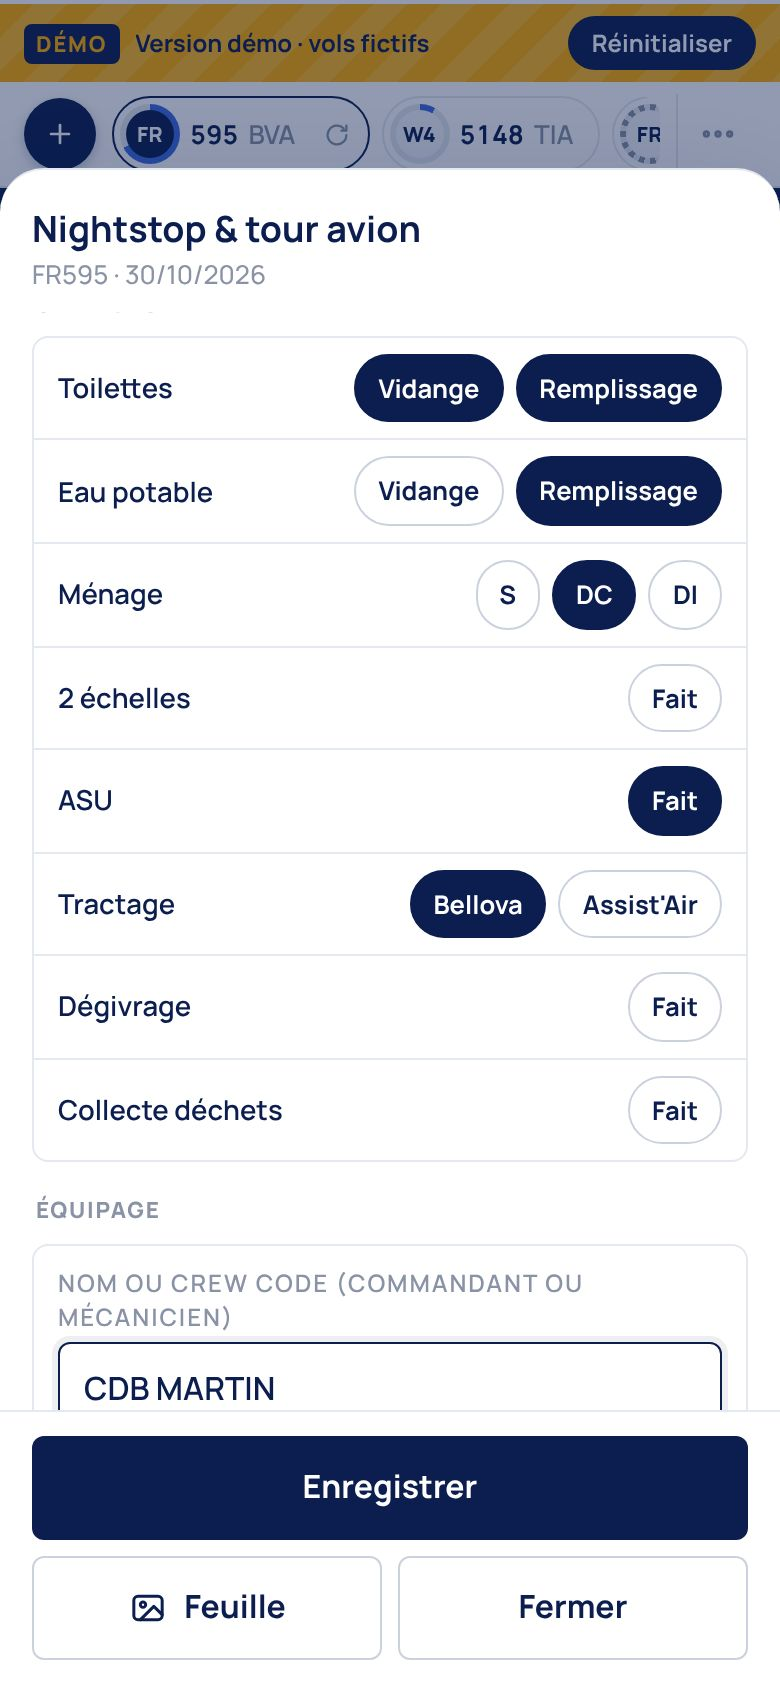
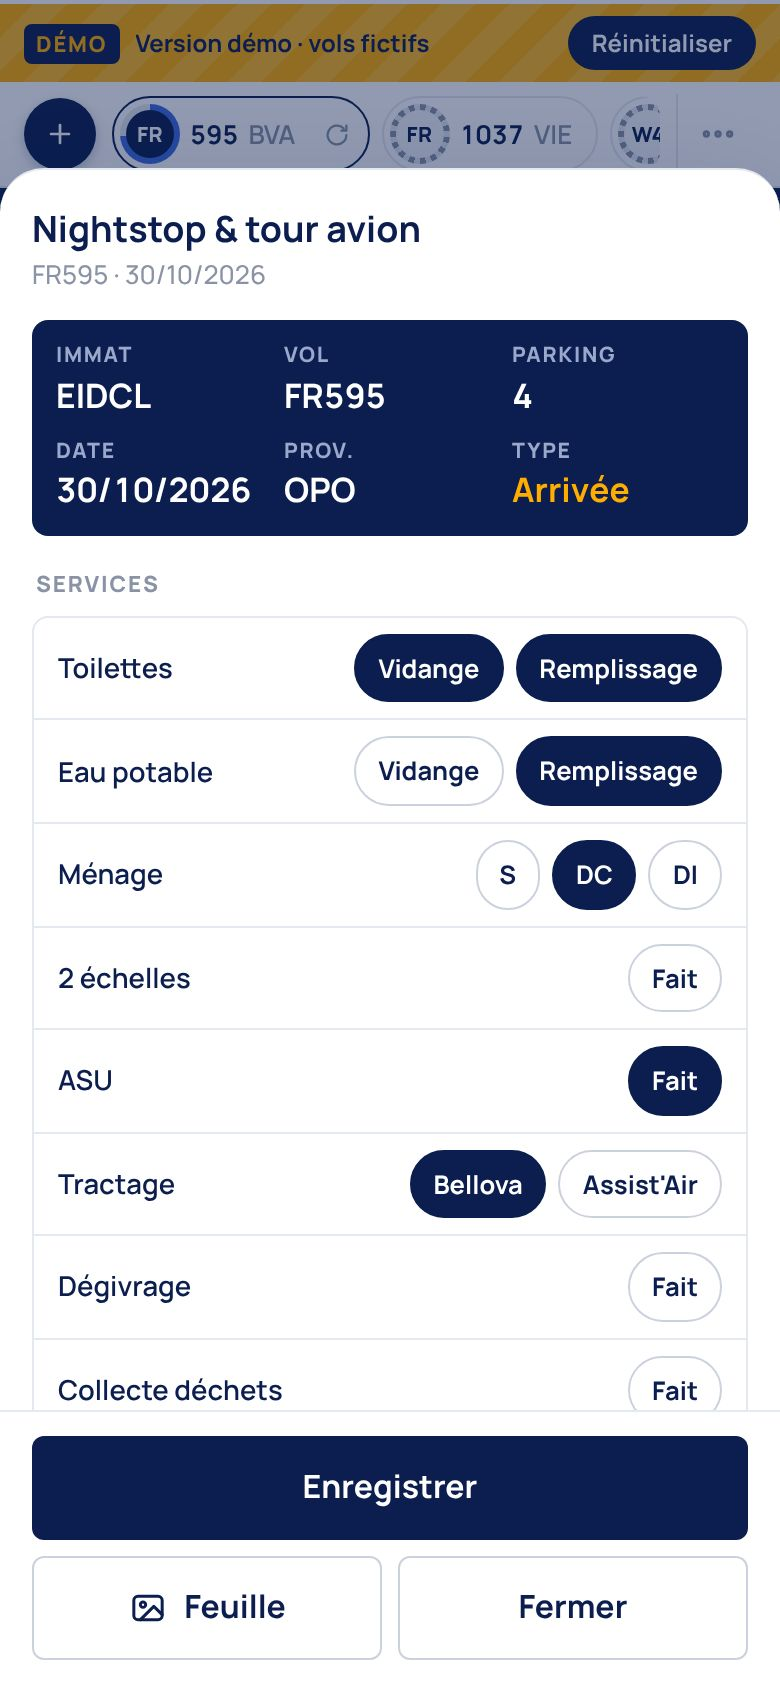
v3.51.1: Nightstop sans bloc équipage, croix = dommage constaté, plus de plein écran système (message Android), signature recalée
Claude-Session: https://claude.ai/code/session_01BEmDqkNWhievWY6FKKJQpQ

diff --git a/nightstop.js b/nightstop.js
@@ -6,7 +6,6 @@
    deviendra obligatoire avec le serveur des rapports.
    Données du vol dans le champ caché Nightstop :
    { sv:{ toilV, toilR, eauV, eauR, men:'S'|'DC'|'DI'|'', ech, asu, tr:'BELLOVA'|'ASSISTAIR'|'', deg, dec },
-     cn, cs, ct,                                   équipage : nom / crew code, signature, heure ISO
      hs:{ on, ok, n, h, s },                       fouille soutes (retour basé, arrivée pays tiers)
      ta:{ sv:'OUI'|'NON'|'', dm:'OUI'|'NON'|'', x:[[u,v]…], av:{ cdb, mec, ops }, n, h, s } }   tour avion
    Les croix sont en coordonnées relatives (0 à 1) sur la silhouette img/silhouette-b737.png.
@@ -50,7 +49,7 @@ const NS_REQUIRED = false;
   }
   const svDone = o => SV.filter(s => s.one ? !!o.sv[s.one] : s.opts.some(([k]) => o.sv[k])).length;
   function started(o){
-    return svDone(o) > 0 || o.cn || o.cs || o.hs.on || o.ta.sv || o.ta.dm || o.ta.x.length || o.ta.n || o.ta.s;
+    return svDone(o) > 0 || o.hs.on || o.ta.sv || o.ta.dm || o.ta.x.length || o.ta.n || o.ta.s;
   }
   function date(){
     const d = ($('Date')?.value || '').split('-');
@@ -70,7 +69,7 @@ const NS_REQUIRED = false;
     const row = $('nsRow'); if(!row) return;
     const m = nsMode();
     row.hidden = !m; if(!m) return;
-    const o = get(), sig = !!(o.cs && o.ta.s);
+    const o = get(), sig = !!o.ta.s;
     $('nsRowT').textContent = m === 'dep' ? 'Nightstop · départ basé' : 'Nightstop · retour basé';
     $('nsRowSub').textContent = svDone(o) + '/' + SV.length + ' services · tour avion ' + (o.ta.s ? 'signé' : 'non signé') + (o.ta.x.length ? ' · ' + o.ta.x.length + (o.ta.x.length > 1 ? ' dommages' : ' dommage') : '');
     $('nsRowSt').textContent = sig ? 'Signé' : started(o) ? 'En cours' : (NS_REQUIRED ? 'À faire' : 'Facultatif');
@@ -113,7 +112,6 @@ const NS_REQUIRED = false;
         + '</span></div>';
     });
     h += '</div>';
-    h += '<div class="ac-sec">Équipage</div><div class="ac-card ac-sign">' + sigBlock('c', o.cn || '', 'Nom ou crew code (commandant ou mécanicien)', 'Signature équipage', null) + '</div>';
 
     if(m === 'arr'){
       h += '<div class="ac-sec">Fouille des soutes</div><div class="ac-card">'
@@ -126,9 +124,10 @@ const NS_REQUIRED = false;
     }
 
     const x = o.ta.x;
+    if(x.length) o.ta.dm = 'OUI';
     h += '<div class="ac-sec">Tour avion</div><div class="ac-card">'
       + '<div class="ns-row"><span>Soutes vidées et contrôlées</span><span class="ns-cs">' + chip(o.ta.sv === 'OUI', 'data-ta="sv" data-v="OUI"', 'Oui') + chip(o.ta.sv === 'NON', 'data-ta="sv" data-v="NON"', 'Non') + '</span></div>'
-      + '<div class="ns-row"><span>Dommage(s) constaté(s)</span><span class="ns-cs">' + chip(o.ta.dm === 'OUI', 'data-ta="dm" data-v="OUI"', 'Oui') + chip(o.ta.dm === 'NON', 'data-ta="dm" data-v="NON"', 'Non') + '</span></div>'
+      + '<div class="ns-row"><span>Dommage(s) constaté(s)</span><span class="ns-cs">' + chip(o.ta.dm === 'OUI', 'data-ta="dm" data-v="OUI"', 'Oui') + chip(o.ta.dm === 'NON', 'data-ta="dm" data-v="NON"' + (x.length ? ' disabled' : ''), 'Non') + '</span></div>'
       + '<div class="ns-pl-wrap"><button type="button" class="ns-pl" id="nsPlane" aria-label="Annoter la silhouette en plein écran">' + planeHTML(x) + '</button>'
       + '<div class="ns-pl-foot"><span>' + (x.length ? x.length + (x.length > 1 ? ' croix' : ' croix') + ' sur la silhouette' : 'Repérer le(s) dommage(s) par une croix') + '</span><button type="button" class="ns-c on" id="nsFullBtn">Plein écran</button></div></div>'
       + '<div class="ns-row"><span>Personne(s) avisée(s)</span><span class="ns-cs">' + chip(o.ta.av.cdb, 'data-av="cdb"', 'CdB') + chip(o.ta.av.mec, 'data-av="mec"', 'Mécanicien') + chip(o.ta.av.ops, 'data-av="ops"', 'Opérations') + '</span></div>'
@@ -143,7 +142,7 @@ const NS_REQUIRED = false;
       + x.map(([u, v]) => '<i class="ns-x" style="left:' + (u * 100).toFixed(2) + '%;top:' + (v * 100).toFixed(2) + '%"></i>').join('');
   }
   function paintPh(){
-    const o = get(), s = { c:o.cs, h:o.hs.s, t:o.ta.s };
+    const o = get(), s = { h:o.hs.s, t:o.ta.s };
     document.querySelectorAll('#nsBody [data-ph]').forEach(p => p.hidden = !!s[p.dataset.ph]);
   }
   const upd = fn => { const o = get(); fn(o); set(o); };
@@ -160,14 +159,16 @@ const NS_REQUIRED = false;
     if(ok) ok.onchange = () => { upd(o => o.hs.ok = ok.checked); ok.closest('.ac-it').classList.toggle('on', ok.checked); };
     body.querySelectorAll('[data-ta]').forEach(b => b.onclick = () => {
       const k = b.dataset.ta, v = b.dataset.v;
+      // une croix sur la silhouette = dommage constaté (Oui imposé tant qu'il reste une croix)
+      if(k === 'dm' && get().ta.x.length) return;
       upd(o => o.ta[k] = o.ta[k] === v ? '' : v);
       body.querySelectorAll('[data-ta="' + k + '"]').forEach(x => x.classList.toggle('on', get().ta[k] === x.dataset.v));
     });
     body.querySelectorAll('[data-av]').forEach(b => b.onclick = () => { upd(o => o.ta.av[b.dataset.av] = !o.ta.av[b.dataset.av]); b.classList.toggle('on'); });
     body.querySelectorAll('[data-name]').forEach(i => i.oninput = () => upd(o => {
       const k = i.dataset.name, v = i.value.trim();
-      if(k === 'c') o.cn = v; else if(k === 'h') o.hs.n = v; else o.ta.n = v;
-      if(k !== 'c') try{ if(v) localStorage.setItem('nsNom', v); }catch(e){}
+      if(k === 'h') o.hs.n = v; else o.ta.n = v;
+      try{ if(v) localStorage.setItem('nsNom', v); }catch(e){}
     }));
     // nom du responsable piste repris du dernier vol
     body.querySelectorAll('[data-name="t"],[data-name="h"]').forEach(i => { if(!i.value){ try{ i.value = localStorage.getItem('nsNom') || ''; }catch(e){} if(i.value) i.oninput(); } });
@@ -177,7 +178,7 @@ const NS_REQUIRED = false;
     });
     body.querySelectorAll('[data-sigclr]').forEach(b => b.onclick = () => {
       const k = b.dataset.sigclr;
-      upd(o => { if(k === 'c'){ o.cs = ''; o.ct = ''; } else if(k === 'h') o.hs.s = ''; else o.ta.s = ''; });
+      upd(o => { if(k === 'h') o.hs.s = ''; else o.ta.s = ''; });
       const cv = body.querySelector('canvas[data-sig="' + k + '"]'); delete cv.dataset.bound; sigInit(cv); paintPh();
     });
     $('nsPlane').onclick = fullOpen; $('nsFullBtn').onclick = fullOpen;
@@ -193,7 +194,7 @@ const NS_REQUIRED = false;
     ctx.setTransform(dpr, 0, 0, dpr, 0, 0);
     ctx.lineCap = 'round'; ctx.lineJoin = 'round'; ctx.lineWidth = 2.4;
     ctx.strokeStyle = getComputedStyle(cv).color || '#0B1E4F';
-    const o = get(), src = k === 'c' ? o.cs : k === 'h' ? o.hs.s : o.ta.s;
+    const o = get(), src = k === 'h' ? o.hs.s : o.ta.s;
     if(src){
       const img = new Image();
       img.onload = () => {
@@ -208,6 +209,8 @@ const NS_REQUIRED = false;
     const pt = e => { const r = cv.getBoundingClientRect(); return [e.clientX - r.left, e.clientY - r.top]; };
     cv.addEventListener('pointerdown', e => {
       e.preventDefault(); cv.setPointerCapture?.(e.pointerId);
+      // taille changée depuis l'ouverture (rotation, clavier) : recaler le canevas avant de dessiner
+      if(cv.width !== Math.round(cv.clientWidth * (window.devicePixelRatio || 1))) sigInit(cv);
       drawing = true; last = pt(e);
       const c = cv.getContext('2d'); c.beginPath(); c.arc(last[0], last[1], 1.1, 0, 7); c.fillStyle = c.strokeStyle; c.fill();
       const ph = document.querySelector('#nsBody [data-ph="' + k + '"]'); if(ph) ph.hidden = true;
@@ -223,10 +226,9 @@ const NS_REQUIRED = false;
       t.width = w1; t.height = h1;
       const tc = t.getContext('2d'); tc.drawImage(cv, 0, 0, w1, h1);
       tc.globalCompositeOperation = 'source-in'; tc.fillStyle = '#0B1E4F'; tc.fillRect(0, 0, w1, h1);
-      const png = t.toDataURL('image/png'), iso = new Date().toISOString();
+      const png = t.toDataURL('image/png');
       upd(o => {
-        if(k === 'c'){ o.cs = png; o.ct = iso; }
-        else if(k === 'h'){ o.hs.s = png; if(!o.hs.h) o.hs.h = nowHM(); }
+        if(k === 'h'){ o.hs.s = png; if(!o.hs.h) o.hs.h = nowHM(); }
         else { o.ta.s = png; if(!o.ta.h) o.ta.h = nowHM(); }
       });
       const hi = document.querySelector('#nsBody [data-hour="' + k + '"]'); if(hi && !hi.value) hi.value = nowHM();
@@ -245,18 +247,15 @@ const NS_REQUIRED = false;
     $('nsFullUndo').disabled = !x.length; $('nsFullClr').disabled = !x.length;
   }
   function fullLayout(){ $('nsFull').classList.toggle('rot', portrait()); fullPaint(); }
-  async function fullOpen(){
+  function fullOpen(){
     const f = $('nsFull');
     f.style.display = 'block';
     fullLayout();
-    try{ if(f.requestFullscreen) await f.requestFullscreen({ navigationUI:'hide' }); }catch(e){}
-    try{ if(screen.orientation && screen.orientation.lock) await screen.orientation.lock('landscape'); }catch(e){}
+    // pas de requestFullscreen : Android affiche alors un message noir par-dessus la silhouette
     setTimeout(fullLayout, 300);
   }
   window.nsFullClose = function(){
     $('nsFull').style.display = 'none';
-    try{ if(screen.orientation && screen.orientation.unlock) screen.orientation.unlock(); }catch(e){}
-    try{ if(document.fullscreenElement) document.exitFullscreen(); }catch(e){}
     const p = $('nsPlane'); if(p){ render(); requestAnimationFrame(() => document.querySelectorAll('#nsBody canvas[data-sig]').forEach(sigInit)); }
   };
   window.nsFullUndo = function(){ upd(o => o.ta.x.pop()); fullPaint(); };
@@ -273,7 +272,7 @@ const NS_REQUIRED = false;
     upd(o => {
       const near = o.ta.x.findIndex(([a, b]) => Math.hypot((a - u) * ar, b - v) < 0.045);
       if(near >= 0) o.ta.x.splice(near, 1);
-      else { o.ta.x.push([+u.toFixed(4), +v.toFixed(4)]); if(!o.ta.dm) o.ta.dm = 'OUI'; }
+      else { o.ta.x.push([+u.toFixed(4), +v.toFixed(4)]); o.ta.dm = 'OUI'; }
     });
     fullPaint();
   }
@@ -301,7 +300,6 @@ const NS_REQUIRED = false;
     const row = (k, v) => { c.strokeStyle = '#d5dde7'; c.lineWidth = 1; c.strokeRect(P, y, W - 2 * P, 32); c.fillStyle = '#0f1723'; c.font = '600 17px Manrope, sans-serif'; c.fillText(k, P + 12, y + 16); c.font = '700 17px Manrope, sans-serif'; c.fillText(v, W / 2, y + 16); y += 32; };
     sec('Services');
     SV.forEach(s => row(s.t, s.one ? (s.opts.find(([k]) => k === o.sv[s.one]) || ['', '—'])[1] : s.opts.filter(([k]) => o.sv[k]).map(([, t]) => t).join(' + ') || '—'));
-    row('Équipage (nom ou crew code)', (o.cn || '—') + (o.cs ? '  · signé' : ''));
     if(m === 'arr' && o.hs.on){ y += 12; sec('Fouille des soutes · arrivée pays tiers'); row('Hold security check / search', o.hs.ok ? 'Effectué' : 'Non coché'); row('Nom · heure', (o.hs.n || '—') + ' · ' + (o.hs.h || '--:--') + (o.hs.s ? '  · signé' : '')); }
     y += 12; sec('Tour avion');
     row('Soutes vidées et contrôlées', o.ta.sv || '—');
@@ -309,7 +307,7 @@ const NS_REQUIRED = false;
     row('Personne(s) avisée(s)', [o.ta.av.cdb && 'Commandant de bord', o.ta.av.mec && 'Mécanicien', o.ta.av.ops && 'Opérations'].filter(Boolean).join(', ') || '—');
     row('Nom · heure', (o.ta.n || '—') + ' · ' + (o.ta.h || '--:--') + (o.ta.s ? '  · signé' : ''));
     const load = src => new Promise(res => { if(!src) return res(null); const i = new Image(); i.onload = () => res(i); i.onerror = () => res(null); i.src = src; });
-    return Promise.all([load(IMG), load(o.cs), load(o.ta.s)]).then(([pl, sc, st]) => {
+    return Promise.all([load(IMG), load(m === 'arr' && o.hs.on ? o.hs.s : ''), load(o.ta.s)]).then(([pl, sh, st]) => {
       y += 20;
       if(pl){
         const pw = W - 2 * P, ph = pw * pl.height / pl.width;
@@ -319,10 +317,11 @@ const NS_REQUIRED = false;
         y += ph + 20;
       }
       c.fillStyle = '#8A93A6'; c.font = '700 14px Manrope, sans-serif';
-      c.fillText('SIGNATURE ÉQUIPAGE', P, y + 10); c.fillText('SIGNATURE TOUR AVION', W / 2, y + 10);
-      c.strokeStyle = '#d5dde7'; c.lineWidth = 1; c.strokeRect(P, y + 24, W / 2 - P - 20, 140); c.strokeRect(W / 2, y + 24, W / 2 - P, 140);
+      const fouille = m === 'arr' && o.hs.on;
+      c.fillText('SIGNATURE TOUR AVION', P, y + 10); if(fouille) c.fillText('SIGNATURE FOUILLE DES SOUTES', W / 2, y + 10);
+      c.strokeStyle = '#d5dde7'; c.lineWidth = 1; c.strokeRect(P, y + 24, W / 2 - P - 20, 140); if(fouille) c.strokeRect(W / 2, y + 24, W / 2 - P, 140);
       const fit = (im, x, w) => { if(!im) return; const k = Math.min((w - 20) / im.width, 120 / im.height); c.drawImage(im, x + 10, y + 34, im.width * k, im.height * k); };
-      fit(sc, P, W / 2 - P - 20); fit(st, W / 2, W / 2 - P);
+      fit(st, P, W / 2 - P - 20); if(fouille) fit(sh, W / 2, W / 2 - P);
       y += 190;
       const out = document.createElement('canvas'); out.width = W; out.height = y;
       out.getContext('2d').drawImage(cv, 0, 0);
@@ -355,7 +354,6 @@ const NS_REQUIRED = false;
       const v = s.one ? (s.opts.find(([k]) => k === o.sv[s.one]) || ['', ''])[1] : s.opts.filter(([k]) => o.sv[k]).map(([, x]) => x).join(' + ');
       if(v) t += s.t.toUpperCase() + ' : ' + v.toUpperCase() + '\n';
     });
-    t += 'EQUIPAGE : ' + (o.cn || '-') + ' · SIGNATURE ' + (o.cs ? 'OUI' : 'NON') + '\n';
     if(m === 'arr' && o.hs.on) t += 'FOUILLE SOUTES (PAYS TIERS) : ' + (o.hs.ok ? 'EFFECTUEE' : 'NON COCHEE') + ' · ' + (o.hs.n || '-') + ' ' + (o.hs.h || '') + ' · SIGNATURE ' + (o.hs.s ? 'OUI' : 'NON') + '\n';
     t += '\nTOUR AVION\n';
     t += 'SOUTES VIDEES ET CONTROLEES : ' + (o.ta.sv || '-') + '\n';
@@ -370,7 +368,10 @@ const NS_REQUIRED = false;
     const f = $('nsFull');
     if(f){
       $('nsFullPlane').addEventListener('click', fullTap);
-      window.addEventListener('resize', () => { if(f.style.display !== 'none') fullLayout(); });
+      window.addEventListener('resize', () => {
+        if(f.style.display !== 'none') fullLayout();
+        if($('nsModal').style.display !== 'none') document.querySelectorAll('#nsBody canvas[data-sig]').forEach(sigInit);
+      });
       document.addEventListener('fullscreenchange', () => { if(f.style.display !== 'none') setTimeout(fullLayout, 200); });
     }
     syncRow(); setInterval(syncRow, 1000);

diff --git a/manuel.html b/manuel.html
@@ -132,7 +132,7 @@ mark{background:var(--mark);color:inherit;border-radius:3px;padding:0 1px}
 <script>
 // Contenu du manuel : [groupe, id, titre, captures (manuel/img/*.jpg), texte HTML]
 // IMGV : à changer quand des captures sont refaites (sinon le navigateur garde les anciennes)
-const IMGV = '5';
+const IMGV = '6';
 const I = (f, c) => [f, c];
 // gros plans (captures recadrées, haute définition) affichés sous le texte de la rubrique
 const ZM = {
@@ -292,10 +292,9 @@ const S = [
 ['Retard et validation','nightstop','Nightstop & tour avion',[I('nightstop','Prestations'),I('nightstop-tour','Tour avion')],`
 <p>Pour les vols basés : <b>départ basé</b> (From = BVA) et <b>retour basé</b> (To = BVA). La ligne <span class="k">Nightstop</span> apparaît alors dans l'onglet Retard, au-dessus de Valider le vol. Elle remplace la feuille papier « Checklist &amp; suivi des prestations nightstop » remise au responsable piste.</p>
 <ul><li><b>Prestations</b> : toilettes et eau potable (vidange / remplissage), ménage <b>S / DC / DI</b>, 2 échelles, ASU, tractage (Bellova / Assist'Air), dégivrage, collecte déchets. Un appui coche ou décoche.</li>
-<li><b>Équipage</b> : nom ou crew code du commandant ou du mécanicien, heure et signature.</li>
 <li><b>Fouille des soutes</b> (hold security search) : retour basé uniquement, à activer quand le vol arrive d'un pays tiers. Nom, heure et signature.</li>
 <li><b>Tour avion</b> : soutes vidées et contrôlées, dommages constatés, personnes avisées (CdB, mécanicien, opérations), nom, heure et signature.</li></ul>
-<p>Les dommages se notent par des <b>croix sur la silhouette</b>. <span class="k">Plein écran</span> passe la silhouette en grand, en paysage (si le téléphone est tenu droit, l'image pivote d'elle-même). Un appui pose une croix, un appui sur une croix l'enlève ; <span class="k">Annuler la dernière</span> et <span class="k">Tout effacer</span> sont dans la barre du haut.</p>
+<p>Les dommages se notent par des <b>croix sur la silhouette</b> : dès qu'une croix est posée, « Dommage(s) constaté(s) » passe à <b>Oui</b> et ne peut plus être mis à Non tant qu'il reste une croix. <span class="k">Plein écran</span> passe la silhouette en grand, en paysage (si le téléphone est tenu droit, l'image pivote d'elle-même). Un appui pose une croix, un appui sur une croix l'enlève ; <span class="k">Annuler la dernière</span> et <span class="k">Tout effacer</span> sont dans la barre du haut.</p>
 <p><span class="k">Feuille</span> partage ou télécharge la feuille complète en image, silhouette comprise. Le contenu est repris dans le rapport du vol.</p>
 <div class="tip info">Feuille <b>facultative</b> dans la version actuelle, comme l'auto-contrôle. Elle deviendra <b>obligatoire</b> une fois le serveur des rapports mis en place.</div>`],
 ['Retard et validation','valider','Valider le vol',[I('retard','Valider le vol')],`

diff --git a/index.html b/index.html
@@ -22,7 +22,7 @@
 /* Mise a jour forcee : si version.json (lu sans cache) annonce une autre
    version que celle-ci, on vide les caches et on recharge la page.
    A chaque livraison : changer APP_VERSION ici, dans version.json et les ?v=. */
-window.APP_VERSION = '20261030r217';
+window.APP_VERSION = '20261030r218';
 (function(){
   function check(){
     fetch('./version.json?t=' + Date.now(), { cache: 'no-store' })
@@ -44,8 +44,8 @@ window.APP_VERSION = '20261030r217';
   document.addEventListener('visibilitychange', function(){ if(document.visibilityState === 'visible') check(); });
 })();
 </script>
-<link rel="stylesheet" href="./fonts/fonts.css?v=20261030r217" />
-<link rel="stylesheet" href="./css/app.css?v=20261030r217" />
+<link rel="stylesheet" href="./fonts/fonts.css?v=20261030r218" />
+<link rel="stylesheet" href="./css/app.css?v=20261030r218" />
 </head>
 <body>
 
@@ -1191,20 +1191,20 @@ function digitsOnly(el){ el.value = (el.value || '').replace(/[^0-9]/g, ''); }
 
 <!-- Cache-busting : incrementer ?v= a CHAQUE deploiement pour forcer
      les navigateurs (et iOS) a recharger app.js au lieu du cache. -->
-<script src="./edition.js?v=20261030r217"></script>
-<script src="./cfg.js?v=20261030r217"></script>
-<script src="./contacts.js?v=20261030r217"></script>
-<script src="./app.js?v=20261030r217"></script>
-<script src="./app-load.js?v=20261030r217"></script>
-<script src="./app-onglets.js?v=20261030r217"></script>
-<script src="./app-retard.js?v=20261030r217"></script>
-<script src="./app-timeline.js?v=20261030r217"></script>
-<script src="./app-keeper.js?v=20261030r217"></script>
-<script src="./app-outils.js?v=20261030r217"></script>
-<script src="./demo-auto.js?v=20261030r217"></script>
-<script src="./ui.js?v=20261030r217"></script>
-<script src="./tools.js?v=20261030r217"></script>
-<script src="./nightstop.js?v=20261030r217"></script>
-<script src="./dlcodes.js?v=20261030r217"></script>
+<script src="./edition.js?v=20261030r218"></script>
+<script src="./cfg.js?v=20261030r218"></script>
+<script src="./contacts.js?v=20261030r218"></script>
+<script src="./app.js?v=20261030r218"></script>
+<script src="./app-load.js?v=20261030r218"></script>
+<script src="./app-onglets.js?v=20261030r218"></script>
+<script src="./app-retard.js?v=20261030r218"></script>
+<script src="./app-timeline.js?v=20261030r218"></script>
+<script src="./app-keeper.js?v=20261030r218"></script>
+<script src="./app-outils.js?v=20261030r218"></script>
+<script src="./demo-auto.js?v=20261030r218"></script>
+<script src="./ui.js?v=20261030r218"></script>
+<script src="./tools.js?v=20261030r218"></script>
+<script src="./nightstop.js?v=20261030r218"></script>
+<script src="./dlcodes.js?v=20261030r218"></script>
 </body>
 </html>

diff --git a/test/ns109.js b/test/ns109.js
@@ -24,8 +24,11 @@ await p.mouse.click(r.x + r.w * 0.5, r.y + r.h * 0.3 + 2);        // même endro
 await p.mouse.click(r.x + r.w * 0.2, r.y + r.h * 0.6);            // u = 0.6, v = 0.8
 await p.evaluate(() => nsFullClose());
 o.data = await p.evaluate(() => { const d = JSON.parse(document.getElementById('Nightstop').value); return { sv:d.sv, x:d.ta.x, dm:d.ta.dm, hs:d.hs.on }; });
+// v3.51.1 : croix présente = Non désactivé et sans effet, plus de bloc Équipage, plus de plein écran système
+o.v511 = await p.evaluate(() => { const n = document.querySelector('[data-ta="dm"][data-v="NON"]'); n.disabled = false; n.click(); const d = JSON.parse(document.getElementById('Nightstop').value);
+  return { dm:d.ta.dm, noCrew:!document.querySelector('#nsBody [data-name="c"]') && !/Équipage/.test(document.getElementById('nsBody').textContent), fs:!document.fullscreenElement }; });
 o.report = await p.evaluate(() => nsReport().split('\n').filter(Boolean).slice(0, 6).join(' | '));
 const ok = o.hiddenOutside && o.dep[0] === 'dep' && /départ basé/.test(o.dep[1]) && o.dep[2] === 'Facultatif' && o.hsShown === 1 && r.rot
   && o.data.sv.toilV && o.data.sv.men === 'DI' && o.data.sv.tr === 'ASSISTAIR' && o.data.x.length === 1
-  && Math.abs(o.data.x[0][0] - 0.6) < 0.02 && Math.abs(o.data.x[0][1] - 0.8) < 0.02 && o.data.dm === 'OUI' && /RETOUR BASE/.test(o.report) && !errs.length;
+  && Math.abs(o.data.x[0][0] - 0.6) < 0.02 && Math.abs(o.data.x[0][1] - 0.8) < 0.02 && o.data.dm === 'OUI' && /RETOUR BASE/.test(o.report) && o.v511.dm === 'OUI' && o.v511.noCrew && o.v511.fs && !/EQUIPAGE/.test(o.report) && !errs.length;
 console.log(JSON.stringify(o), errs.join(' | ') || 'no errors'); console.log(ok ? 'PASS' : 'FAIL'); await b.close(); process.exit(ok ? 0 : 1); })();
